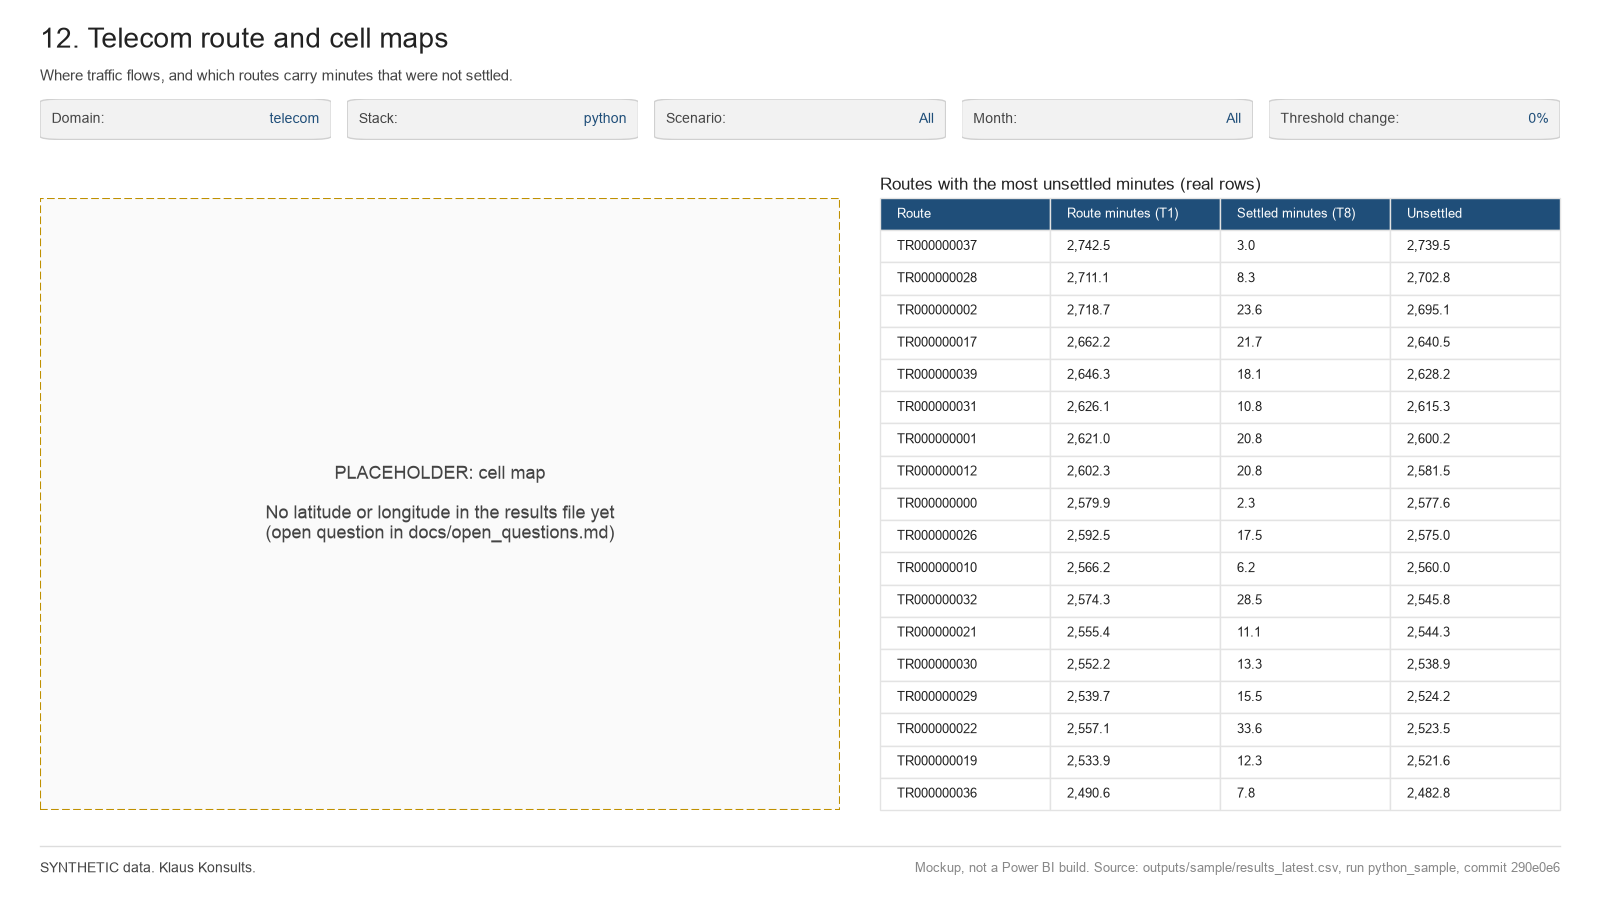
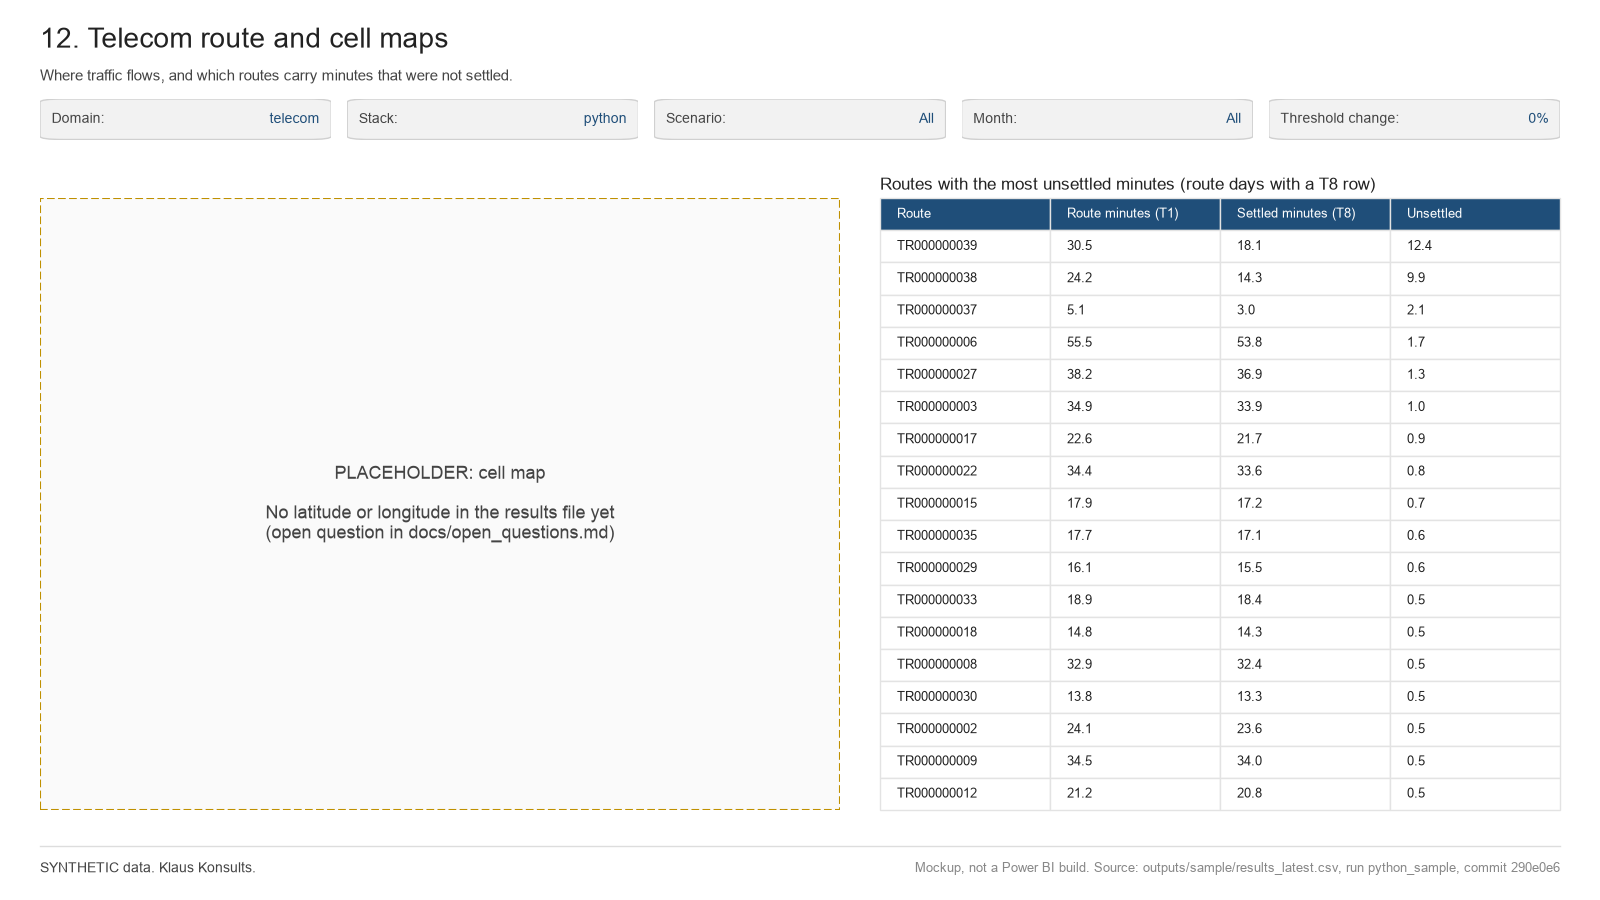
Mockup page 12: sum unsettled minutes only over route days with a T8 row (Klaus Konsults)

diff --git a/docs/powerbi_mockups/render_mockups.py b/docs/powerbi_mockups/render_mockups.py
@@ -312,12 +312,14 @@ save(fig, 11, "runtime_memory")
 fig = page(12, "Telecom route and cell maps", "Where traffic flows, and which routes carry minutes that were not settled.", slic(domain="telecom"))
 placeholder(fig, [0.025, 0.1, 0.5, 0.68], "PLACEHOLDER: cell map\n\nNo latitude or longitude in the results file yet\n(open question in docs/open_questions.md)")
 Gd = T("geo")
-gr = Gd.groupby("route")[["geo_minutes", "geo_settled_minutes"]].sum(min_count=1).fillna(0)
+# Only route days with a T8 settlement row: T8 does not cover every day, and days without a row are not unsettled
+Gd = Gd[Gd.geo_settled_minutes.notna()].assign(geo_minutes=lambda x: x.geo_minutes.fillna(0))
+gr = Gd.groupby("route")[["geo_minutes", "geo_settled_minutes"]].sum()
 gr["unsettled"] = gr.geo_minutes - gr.geo_settled_minutes
 gr = gr.sort_values("unsettled", ascending=False).head(18).reset_index()
 table(fig, [0.55, 0.1, 0.425, 0.68], pd.DataFrame({"Route": gr.route, "Route minutes (T1)": gr.geo_minutes.map(lambda v: fmt(v, 1)),
                                                    "Settled minutes (T8)": gr.geo_settled_minutes.map(lambda v: fmt(v, 1)),
                                                    "Unsettled": gr.unsettled.map(lambda v: fmt(v, 1))}),
-      title="Routes with the most unsettled minutes (real rows)", fs=9)
+      title="Routes with the most unsettled minutes (route days with a T8 row)", fs=9)
 save(fig, 12, "route_cell_maps")
 print("font", FONT, "commit", COMMIT, "run", RUN)
